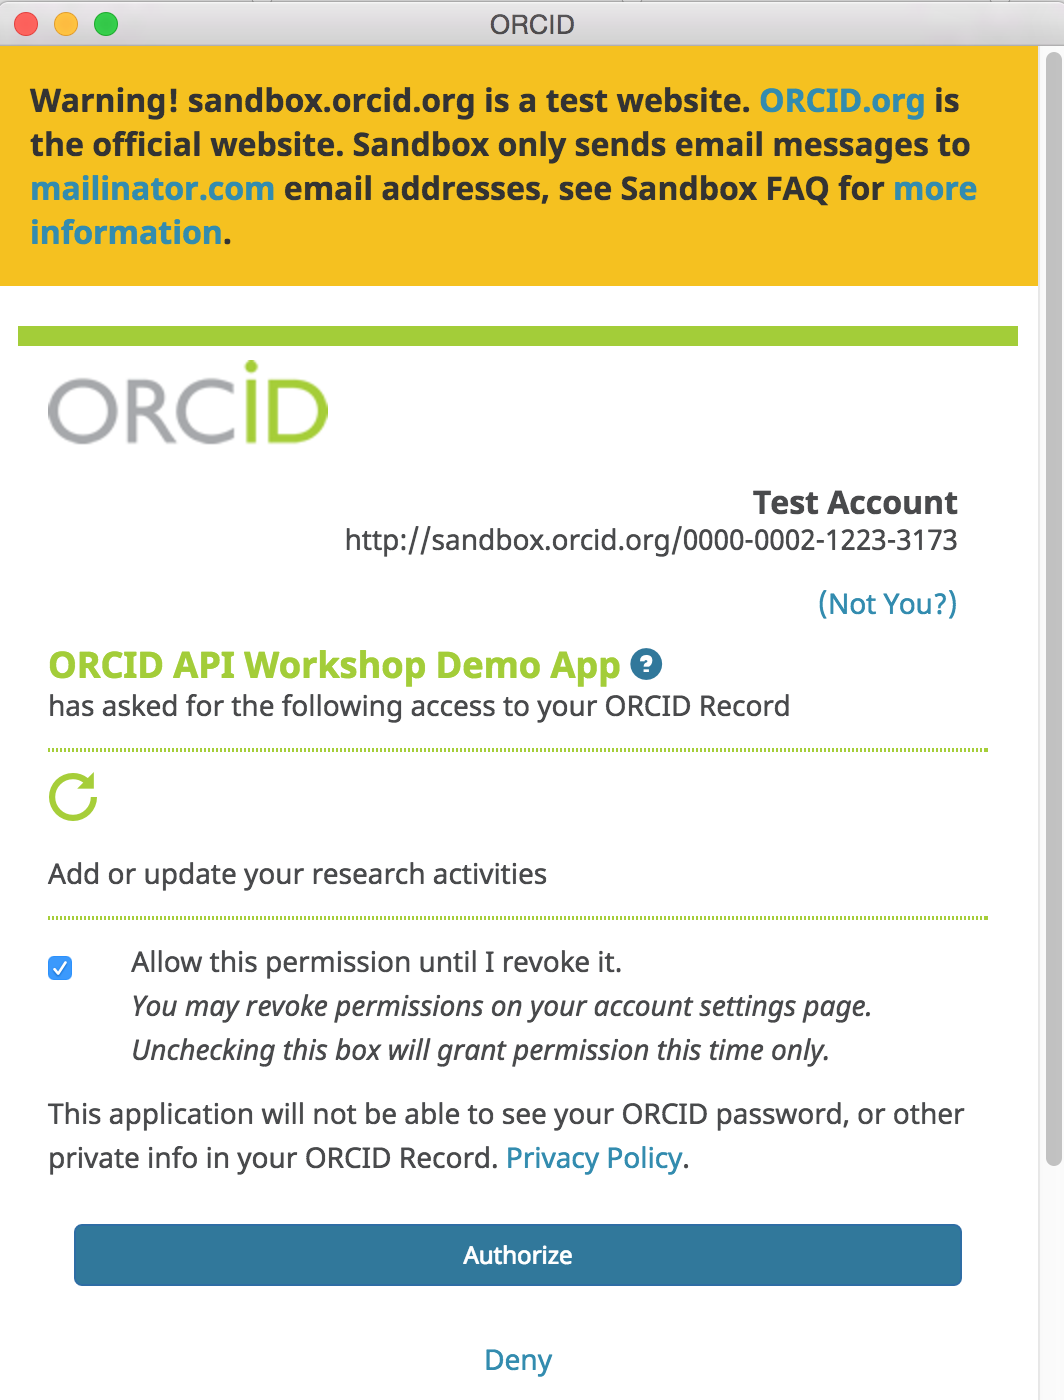
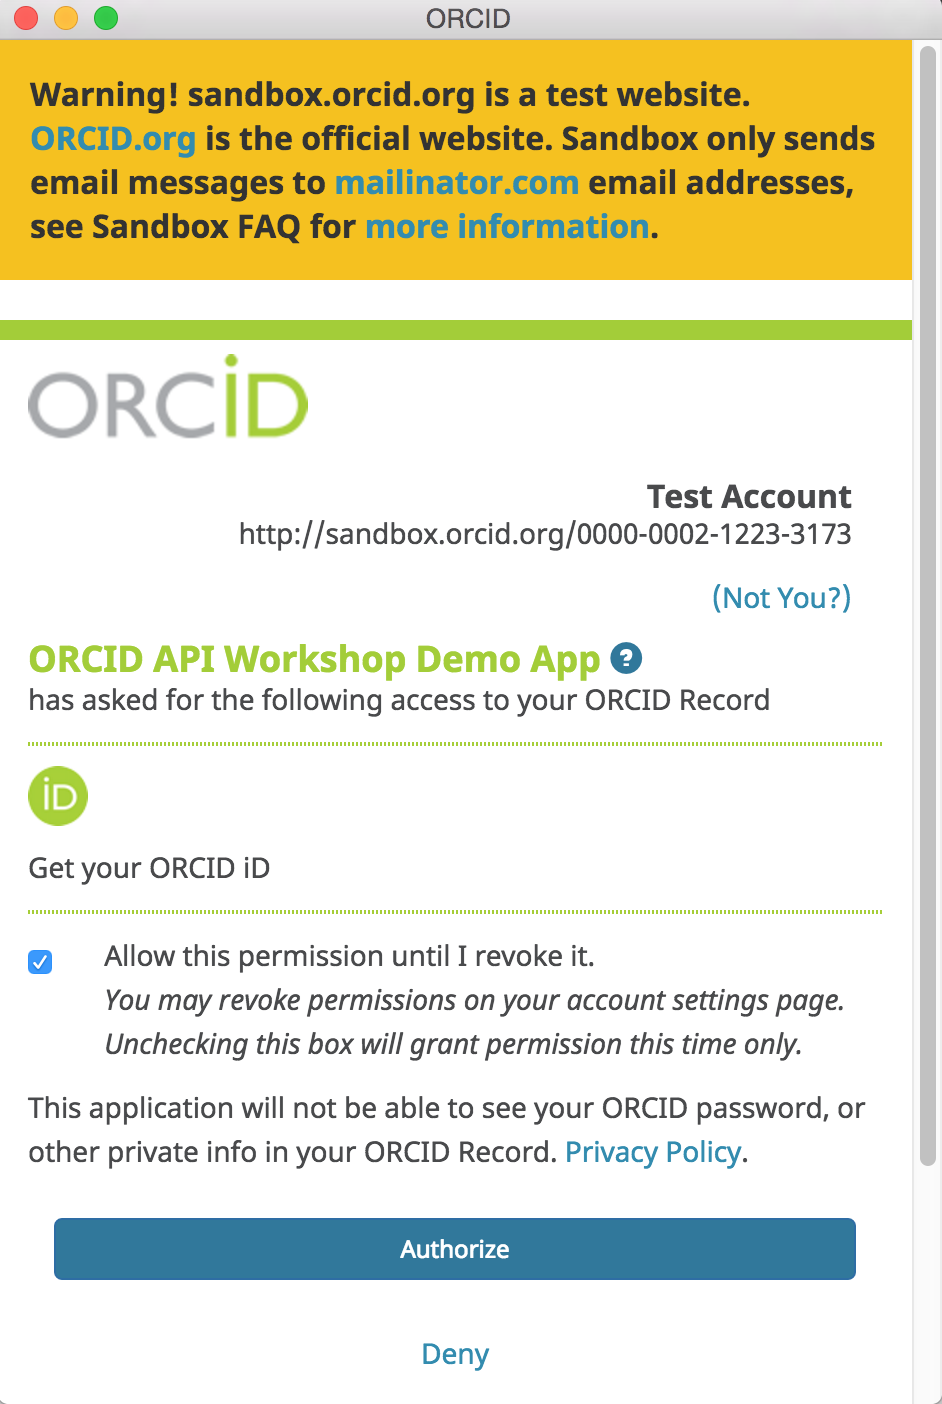
Deployed 07611e0 with MkDocs version: 0.16.3

diff --git a/collect/index.html b/collect/index.html
@@ -218,8 +218,8 @@
 </li>
       
         <li class="md-nav__item">
-  <a href="#get-an-access-token-authenticated-orcid-id" title="Get an access token &amp; authenticated ORCID iD" class="md-nav__link">
-    Get an access token &amp; authenticated ORCID iD
+  <a href="#get-an-authenticated-orcid-id" title="Get an authenticated ORCID iD" class="md-nav__link">
+    Get an authenticated ORCID iD
   </a>
   
 </li>
@@ -295,8 +295,8 @@
 </li>
       
         <li class="md-nav__item">
-  <a href="#get-an-access-token-authenticated-orcid-id" title="Get an access token &amp; authenticated ORCID iD" class="md-nav__link">
-    Get an access token &amp; authenticated ORCID iD
+  <a href="#get-an-authenticated-orcid-id" title="Get an authenticated ORCID iD" class="md-nav__link">
+    Get an authenticated ORCID iD
   </a>
   
 </li>
@@ -319,19 +319,12 @@
                   <h1>5. AUTHENTICATE iDs</h1>
                 
                 <p>In our first few API requests, we already knew which ORCID iD to use (our own!) and we read/searched public information, which didn't require any permission from the user. </p>
-<p>In practice, you'll need to gather up iDs for researchers whose ORCID records you want to read, update, or associate with records in your own system AND get permission to take certain actions, like adding information to their ORCID records. </p>
-<p>In this section, we'll use the Member API to get an authenticated ORCID iD and record access permission.</p>
+<p>In practice, you'll need to gather up iDs for researchers whose ORCID records your interested in. The best way to do this is to get authenticated iDs from those researchers.</p>
+<p>In this section, we'll use the Sandbox Member API to get an authenticated ORCID iD. This process can also be completed using the Public API.</p>
 <p><strong>Authenticated iDs</strong></p>
 <p>ORCID is about disambiguation,it's important that you get the correct iD for each researcher. The best way to do this is to collect <strong>Authenticated ORCID iDs</strong>, which means that each researcher signs into their ORCID account and authorizes your system to obtain their iD. <a href="https://orcid.org/blog/2017/02/20/whats-so-special-about-signing">Learn more about Authenticated iDs</a></p>
-<p><strong>Record access permission</strong></p>
-<p>Control over access to data in your ORCID record is one of <a href="https://orcid.org/about/what-is-orcid/principles">ORCID's core princples</a>. While you can read public ORCID data without the record owner's involvement, some API actions require permission:</p>
-<ul>
-<li>Get an Authenticated ORCID iD</li>
-<li>Read non-public data (items with privacy set to 'Trusted parties')</li>
-<li>Add/update record data</li>
-</ul>
 <p><strong>OAuth 2.0</strong> </p>
-<p>Getting an Authenticated iD and record access permission from a user involves following <a href="https://oauth.net/2/">OAuth 2.0</a>, an industry-standard protocol for authorization. OAuth allows a user to give a website or application access to account information stored on another site, without giving that site their password. </p>
+<p>Getting an Authenticated iD from a user involves following <a href="https://oauth.net/2/">OAuth 2.0</a>, an industry-standard protocol for authorization. OAuth allows a user to give a website or application access to account information stored on another site, without giving that site their password. </p>
 <p>If you've ever signed into a site using Google or Facebook instead of your credentials for that particular site, you've already used OAuth!</p>
 <p><strong>The OAuth process includes 3 steps:</strong></p>
 <ol>
@@ -348,7 +341,7 @@ client_secret: 7c8d6b1b-401b-4f5d-9b8b-b8108c6e197c
 </code></pre>
 
 <p>(Demo client secret created for this workshop - do not share API client secrets!)</p>
-<h3 id="get-an-access-token-authenticated-orcid-id">Get an access token &amp; authenticated ORCID iD</h3>
+<h3 id="get-an-authenticated-orcid-id">Get an authenticated ORCID iD</h3>
 <p>For this tutorial, we'll use Postman to simulate the steps of an OAuth 2.0 interaction that, in the real world, would be completed by your own custom web application or a vendor system.</p>
 <p>For more details on what's happening behind the scenes, see our <a href="https://members.orcid.org/api/tutorial/get-orcid-id">Basic tutorial: Get an authenticated ORCID iD </a></p>
 <ol>
@@ -368,7 +361,7 @@ client_secret: 7c8d6b1b-401b-4f5d-9b8b-b8108c6e197c
 <tbody>
 <tr>
 <td><strong>Token Name</strong></td>
-<td>ORCID Sandbox</td>
+<td>Get ORCID iD</td>
 </tr>
 <tr>
 <td><strong>Auth URL</strong></td>
@@ -388,7 +381,7 @@ client_secret: 7c8d6b1b-401b-4f5d-9b8b-b8108c6e197c
 </tr>
 <tr>
 <td><strong>Scope</strong></td>
-<td><code>/activities/update</code> <br>This scope allows adding/updating items in the education, employment, funding or works sections of an ORCID record. Other scopes are also available - see full list of <a href="https://members.orcid.org/api/oauth/orcid-scopes">ORCID Scopes</a></td>
+<td><code>/authenticate</code> <br>This scope allows getting a user's authenticated ORCID iD. Other scopes are also available - see full list of <a href="https://members.orcid.org/api/oauth/orcid-scopes">ORCID Scopes</a></td>
 </tr>
 <tr>
 <td><strong>Grant Type</strong></td>
@@ -398,13 +391,14 @@ client_secret: 7c8d6b1b-401b-4f5d-9b8b-b8108c6e197c
 </table>
 <ol>
 <li>Leave <strong>Request access token locally</strong> unchecked and click <strong>Request Token</strong><br>
-<img src="../images/04-2_token-config.png" width="400" alt="Google OAuth Playground exchanging authorization code for access token" /></li>
+<img src="../images/04-2_token-config.png" width="400" alt="Postman config for exchanging authorization code for access token" /></li>
 <li>An ORCID sign-in screen will appear; sign into the Sandbox ORCID account you created earlier.<br>
 <img src="../images/04-2_signin-screen.png" width="400" alt="ORCID Sandbox signin screen" /></li>
-<li>A screen asking you to grant access to your record will appear; click <strong>Authorize</strong><br>
+<li>A screen asking you to authorize ORCID to share your iD with an external application will appear; click <strong>Authorize</strong><br>
 <img src="../images/04-2_oauth-screen.png" width="400" alt="ORCID Sandbox authorization screen" /></li>
-<li>Beneath <strong>Existing Tokens</strong>, click <strong>ORCID Sandbox</strong>. The access token and ORCID iD for the user who signed in will appear at right.<br>
-<img src="../images/04-3_token-response.png" width="600" alt="Google OAuth Playground json response for an access token request" /></li>
+<li>Beneath <strong>Existing Tokens</strong>, click <strong>Get ORCID iD</strong>. The ORCID iD for the user who signed in will appear at right.<br>
+<img src="../images/04-3_token-response.png" width="600" alt="Postman response for an access token request" /><br>
+<em>An Access Token is also generated, however, this token is not valid for any additional API requests.</em></li>
 </ol>
                 
                   

diff --git a/connect/index.html b/connect/index.html
@@ -223,6 +223,13 @@
     <ul class="md-nav__list" data-md-scrollfix>
       
         <li class="md-nav__item">
+  <a href="#get-an-access-token" title="Get an access token" class="md-nav__link">
+    Get an access token
+  </a>
+  
+</li>
+      
+        <li class="md-nav__item">
   <a href="#add-an-education-affiliation" title="Add an education affiliation" class="md-nav__link">
     Add an education affiliation
   </a>
@@ -288,6 +295,13 @@
     <ul class="md-nav__list" data-md-scrollfix>
       
         <li class="md-nav__item">
+  <a href="#get-an-access-token" title="Get an access token" class="md-nav__link">
+    Get an access token
+  </a>
+  
+</li>
+      
+        <li class="md-nav__item">
   <a href="#add-an-education-affiliation" title="Add an education affiliation" class="md-nav__link">
     Add an education affiliation
   </a>
@@ -318,17 +332,33 @@
                 
                   <h1>6. ADD information</h1>
                 
-                <p>Now that we've got an Access Token, we can use it like a password to take the API actions we requested permission for (in this case, to update Activities). In this section, we'll add an education affiliation to our Sandbox record.</p>
-<h2 id="add-an-education-affiliation">Add an education affiliation</h2>
-<p>Still have that ORCID Sandbox access token saved in Postman? If so, continue with step 1 below. If not, go back and repeat the <a href="../collect/#get-an-access-token-authenticated-orcid-id">Get an access token &amp; authenticated ORCID iD</a> step from the previous section before moving on to the steps below.</p>
+                <p>ORCID member organizations can use the API to add information from their systems, like affiliations, grants and publications, to user's records, making that information visible both to the user and to other systems that rely on ORCID data.</p>
+<p>In this section, we'll use the Member API to add an education affiliation item to our Sandbox record. </p>
+<h2 id="get-an-access-token">Get an access token</h2>
+<p>Before we can add data to an ORCID record, we first need to get permission from the record owner via the same OAuth 2.0 process we used to get an authenticated iD in the previous section. </p>
+<p><em><strong>Why do we need permission?</strong> Control over access to data in your ORCID record is one of <a href="https://orcid.org/about/what-is-orcid/principles">ORCID's core princples</a>. While you can read public data without the record owner's involvement, reading non-public data or making changes to data always requires the record owner's permission.</em> </p>
 <ol>
-<li>In the Postman Builder tab, click the <strong>+</strong> sign at the top of the screen to create a new request.</li>
-<li>Set the request type to <strong>POST</strong>.<br></li>
+<li>In the same Postman request tab that you used in the last section, click <strong>Get New Access Token</strong></li>
+<li>Change <strong>Token Name</strong> to <strong>Update record</strong> and <strong>Scope</strong> to <code>/activites/update</code>. Leave all other fields as they were in the <a href="../collect/#get-an-authenticated-orcid-id">Get an authenticated ORCID iD section</a><br>
+<em><code>/activites/update</code> scope generates a token that can be used to add/update items in the education, employment, funding and works sections of an ORCID record.</em><br> 
+<img src="../images/06-1_token-config.png" width="400" alt="Postman config for exchanging authorization code for access token" /></li>
+<li>Leave <strong>Request access token locally</strong> unchecked and click <strong>Request Token</strong></li>
+<li>An ORCID sign-in screen will appear; sign into the Sandbox ORCID account you created earlier. <em><strong>Note:</strong> If you're already signed into ORCID in the same browser, this step will be skipped.</em><br>
+<img src="../images/04-2_signin-screen.png" width="400" alt="ORCID Sandbox signin screen" /></li>
+<li>A screen asking you to grant permission to update your ORCID record will appear; click <strong>Authorize</strong><br>
+<img src="../images/06-1_oauth-screen.png" width="400" alt="ORCID Sandbox authorization screen" /></li>
+<li>Beneath <strong>Existing Tokens</strong>, click <strong>Update record</strong>. The Access Token for the user who signed in will appear at right.<br>
+<img src="../images/06-1_token-response.png" width="600" alt="Postman response for an access token request" /><br></li>
+</ol>
+<h2 id="add-an-education-affiliation">Add an education affiliation</h2>
+<p>Next, we'll use the access token generated in the previous section to add an education affiliation to our Sandbox ORCID record.</p>
+<ol>
+<li>In the same Postman Builder tab, you were working in to generate the <strong>Update record</strong> access token, set the request type to <strong>POST</strong>.<br></li>
 <li>In the <strong>Request URI</strong> field enter:<br>
 <code>https://api.sandbox.orcid.org/v2.0/[ORCID ID]/education</code><br>
 <em>Replace [ORCID ID] with the iD for your Sandbox record, format XXXX-XXXX-XXXX-XXXX</em><br>
 <img src="../images/06-1_request-uri.png" width="600" alt="Postman request URI config for education affiliation POST request" /></li>
-<li>Click <strong>Authorization</strong>, select the <strong>ORCID Sandbox</strong> token, and set the <strong>Add token to</strong> dropdown to <strong>Header</strong><br>
+<li>Click <strong>Authorization</strong>, select the <strong>Update record</strong> token, and set the <strong>Add token to</strong> dropdown to <strong>Header</strong><br>
 <img src="../images/06-1_authorization.png" width="600" alt="Postman authorization config for education affiliation POST request" /></li>
 <li>Click <strong>Headers</strong> and add the keys and values below (notice that Postman added the access token as a header)</li>
 </ol>

diff --git a/sync/index.html b/sync/index.html
@@ -318,7 +318,8 @@
                 
                   <h1>7. UPDATE information</h1>
                 
-                <p>In a real-world situation, you may need to update a researcher's affiliation. In this section, we'll update our education affiliation to include an end date.</p>
+                <p>In a real-world situation, you may need to update information that you've added previously, like the dates of a researcher's affiliation with your institution. </p>
+<p>In this section, we'll use the Sandbox Member API to update our education affiliation to include an end date.</p>
 <h2 id="update-an-education-affiliation">Update an education affiliation</h2>
 <ol>
 <li>In the <strong>Response</strong> section from the POST request we just made, click <strong>Headers</strong> and scroll down to <strong>Location</strong>. Copy the 5-character code at the end of the URI - this is the <strong>put-code</strong> for the education affiliation that you added in the previous section.<br>
@@ -328,10 +329,11 @@
 <code>https://api.sandbox.orcid.org/v2.0/[ORCID ID]/education/[PUT CODE]</code><br>
 <em>Replace [ORCID ID] with the iD for your Sandbox record, format XXXX-XXXX-XXXX-XXXX and [PUT CODE] with the put-code for your education affiliation</em><br>
 <img src="../images/06-2_request-uri.png" width="600" alt="Postman request URI configuration for updating an education affiliation" /></li>
-<li>Click <strong>Authorization</strong> and make sure that your ORCID Sandbox token is still selected, and the <strong>Add token to</strong> dropdown is still set to <strong>Header</strong><br></li>
+<li>Click <strong>Authorization</strong> and make sure that your <strong>Update record</strong> token is still selected, and the <strong>Add token to</strong> dropdown is still set to <strong>Header</strong><br>
+<img src="../images/06-1_authorization.png" width="600" alt="Postman authorization config for education affiliation POST request" /></li>
 <li>Click <strong>Headers</strong> and make sure that <code>accept</code> and <code>Content-type</code> are both set to <code>application/vnd.orcid+xml</code><br>
 <img src="../images/06-2_put-headers.png" width="600" alt="Postman header configuration" /></li>
-<li>Click <strong>Body</strong> (the XML for the affiliation you added in the previous step should appear).</li>
+<li>Click <strong>Body</strong>; the XML for the affiliation you added in the previous step should appear.</li>
 <li>Inside the <code>&lt;education:education</code> tag, add <code>put-code="[PUT CODE]"</code><br>
 <em>Replace [PUT CODE] with the put-code for your education affiliation, ex <code>&lt;education:education put-code="26971"</code></em><br>
 <img src="../images/06-2_request-body-1.png" width="600" alt="Postman request body configuration for updating an education affiliation showing where to place put-code" /></li>
